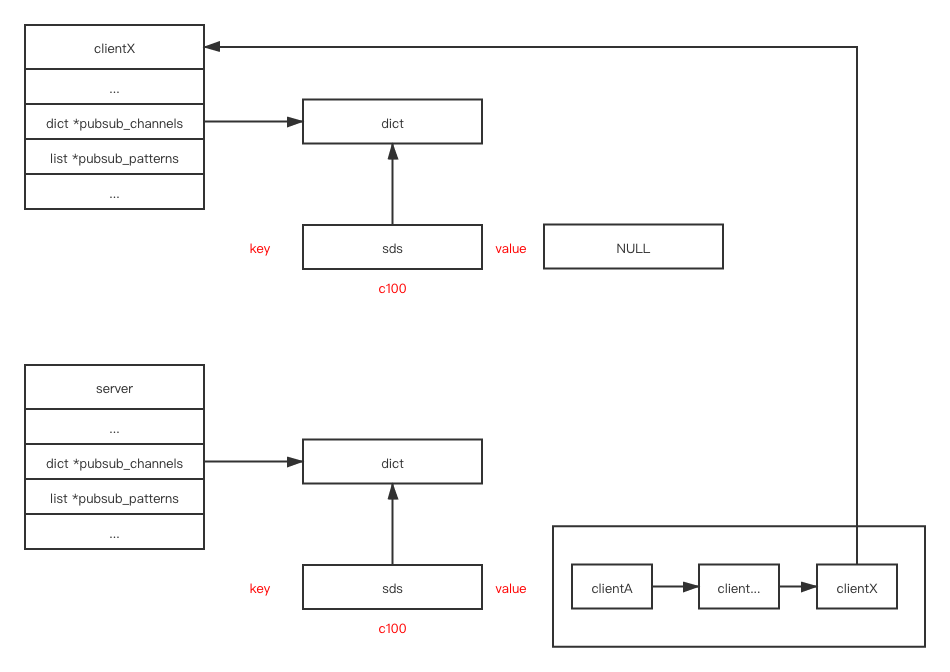
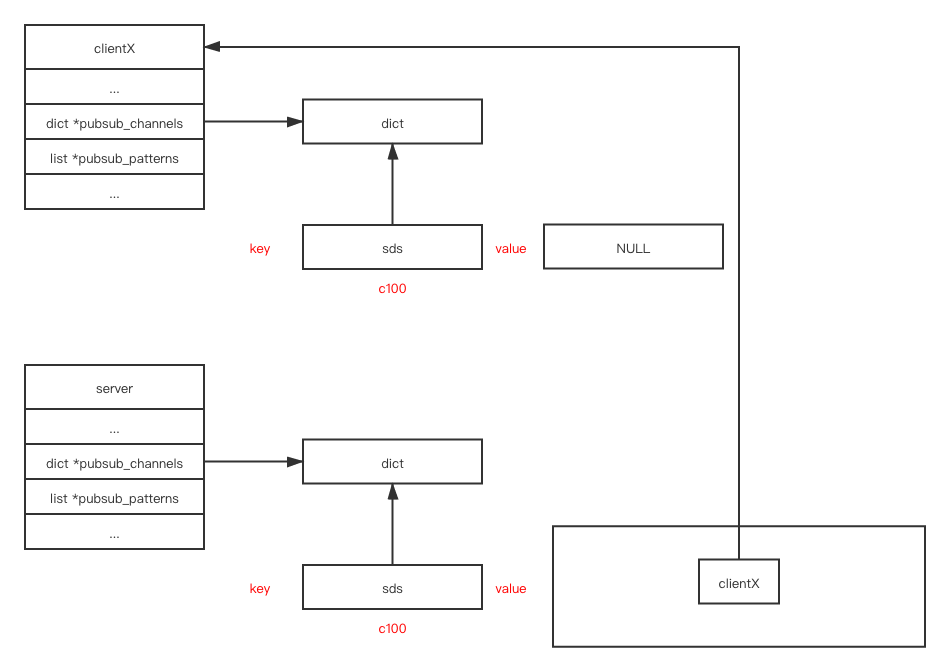
pubsub v0.3

diff --git a/Server/pubsub/pubsub.md b/Server/pubsub/pubsub.md
@@ -23,7 +23,23 @@ In redis client, If you type the following command
 
 ![sub](https://github.com/zpoint/Redis-Internals/blob/5.0/Server/pubsub/sub.png)
 
-[hash table](https://github.com/zpoint/Redis-Internals/blob/5.0/Object/hash/hash.md#OBJ_ENCODING_HT) is used for storing `pubsub_channels`, A [sds](https://github.com/zpoint/Redis-Internals/blob/5.0/Object/sds/sds.md) with string repreentatiomn `c100` is stored inside the `pubsub_channels` as key, and a list of client is stored as value
+[hash table](https://github.com/zpoint/Redis-Internals/blob/5.0/Object/hash/hash.md#OBJ_ENCODING_HT) is used for storing `pubsub_channels`, A [sds](https://github.com/zpoint/Redis-Internals/blob/5.0/Object/sds/sds.md) with string repreentatiomn `c100` is stored inside the `pubsub_channels` as key, For server, a list of client is stored as value
+
+For client, value field stores a `NULL` pointer
+
+Each client object stores all the channels it subscribed in a dictionary named `client.pubsub_channels`, channel name as key, `NULL` pointer as value
+
+While in the `server` object, all channels in all `redis` clients are stored in the `server.pubsub_channels`
 
 
+If we start another client and subscribe the same channel
+
+    127.0.0.1:6379> SUBSCRIBE c100
+    Reading messages... (press Ctrl-C to quit)
+    1) "subscribe"
+    2) "c100"
+    3) (integer) 1
+
+
+![sub2](https://github.com/zpoint/Redis-Internals/blob/5.0/Server/pubsub/sub2.png)
 
